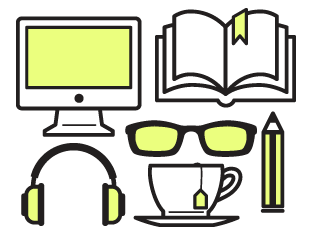
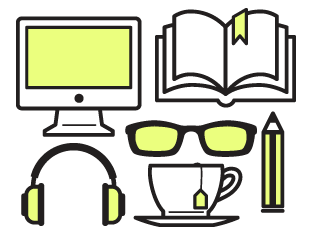
replaced images with ones that have transparent backgrounds and better sizing. added styling for portfolio thumbnails.

diff --git a/templates/assets/css/style.css b/templates/assets/css/style.css
@@ -155,12 +155,34 @@ ul{
 	display: none;
 	margin-bottom:20px;
 	cursor: pointer;
+	max-height:316px;
 }
 
 /* Select all first p elements in mix div*/
 #portfolio .mix p.font-size-15{
 	margin-bottom:2px;
 }
+#portfolio .mix.commercial img{
+	border-bottom: 10px solid #ecff7f
+}
+#portfolio .mix.arts img{
+	border-bottom: 10px solid #34cdc1
+}
+#portfolio .mix.personal img{
+	border-bottom: 10px solid #a3ec6e
+}
+
+#portfolio .mix img:hover:before {
+    background: rgba(30,30,30, 0.6);
+    -moz-transition: all .5s linear;
+    -webkit-transition: all .5s linear;
+    -ms-transition: all .5s linear;
+    -o-transition: all .5s linear;
+    transition: all .5s linear;
+    /*content:"anytext";*/
+}
+
+
 ul.mix-filter{
 	display: block;
 	padding-bottom:20px;
@@ -177,3 +199,4 @@ ul.mix-filter > li a{
 ul.mix-filter > li.active a{
 	color:#34cdc1;
 }
+
